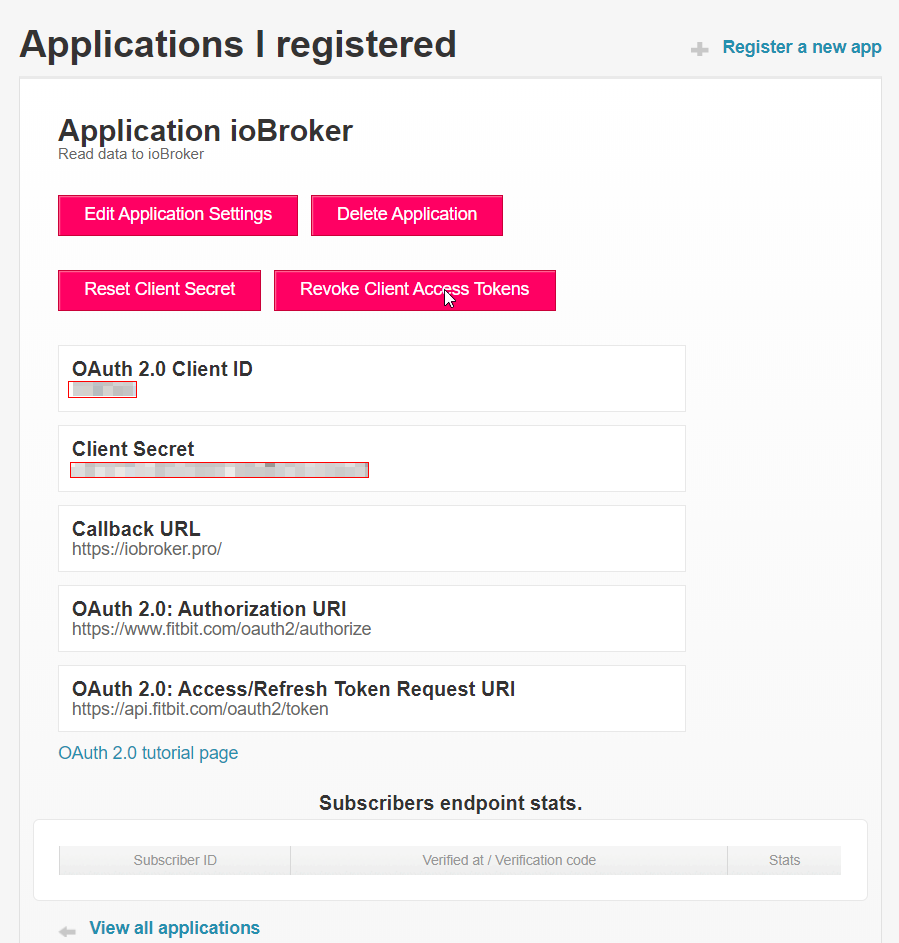
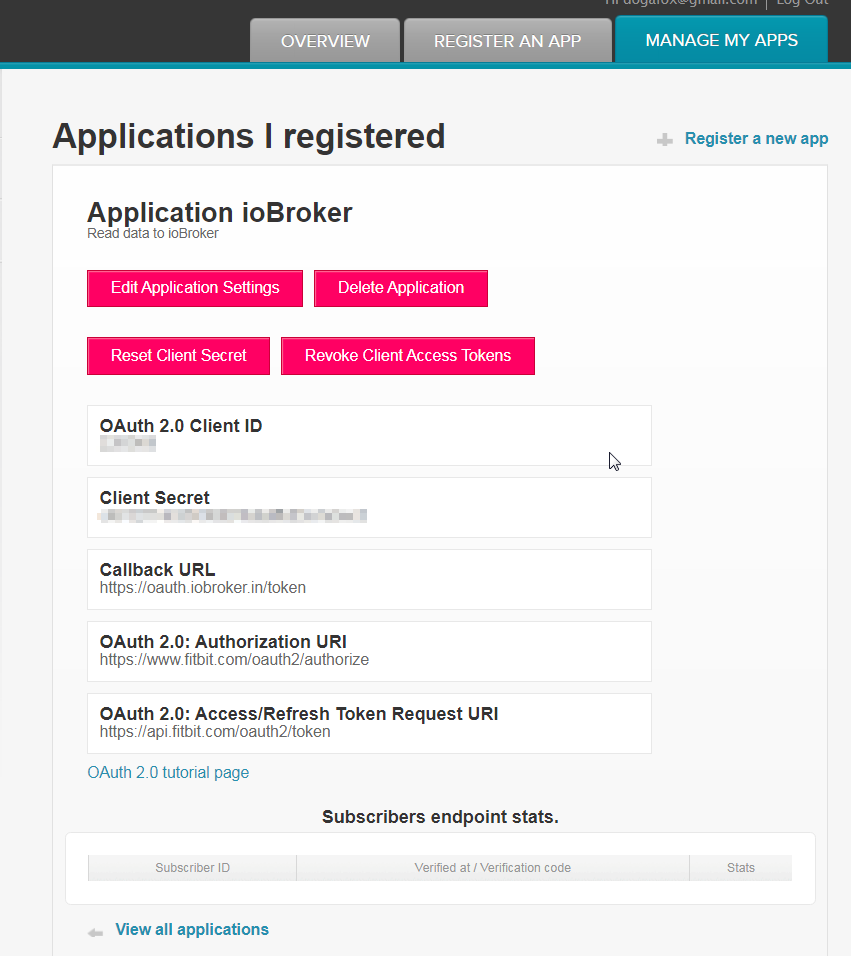
Update

diff --git a/admin/words.js b/admin/words.js
@@ -3,11 +3,17 @@
 'use strict';
 
 systemDictionary = {
-    "Auto": {                                        "en": "Auto",                                            "de": "Auto",                                            "ru": "Автоматически",                                   "pt": "Auto",                                            "nl": "Auto",                                            "fr": "Auto",                                            "it": "Auto",                                            "es": "Auto"},
-    "Manual": {                                      "en": "Manual",                                          "de": "Manual",                                          "ru": "Вручную",                                         "pt": "Manual",                                          "nl": "Met de hand",                                     "fr": "Manuel",                                          "it": "Manuale",                                         "es": "Manual"},
-    "My select": {                                   "en": "My select",                                       "de": "Mein Auswahl",                                    "ru": "Выбор",                                           "pt": "Meu selecionado",                                 "nl": "Mijn select",                                     "fr": "Mon choix",                                       "it": "La mia selezione",                                "es": "Mi seleccion"},
-    "on save adapter restarts with new config immediately": {"en": "on save adapter restarts with new config immediately", "de": "Beim Speichern von Einstellungen der Adapter wird sofort neu gestartet.", "ru": "При сохранении настроек адаптера он сразу же перезапускается", "pt": "no adaptador de salvar reinicia com nova configuração imediatamente", "nl": "on save-adapter wordt onmiddellijk opnieuw opgestart met nieuwe config", "fr": "sur l'adaptateur de sauvegarde redémarre avec la nouvelle config immédiatement", "it": "su save adapter si riavvia immediatamente con la nuova configurazione", "es": "en el adaptador de guardar se reinicia con nueva configuración de inmediato"},
-    "template adapter settings": {                   "en": "template adapter settings",                       "de": "Beispiel",                                        "ru": "Пример",                                          "pt": "configurações do adaptador de modelo",            "nl": "sjabloon-adapterinstellingen",                    "fr": "paramètres de l'adaptateur de modèle",            "it": "impostazioni dell'adattatore del modello",        "es": "configuración del adaptador de plantilla"},
-    "test1": {                                       "en": "Test 1",                                          "de": "Test 1",                                          "ru": "Тест 1",                                          "pt": "Teste 1",                                         "nl": "Test 1",                                          "fr": "Test 1",                                          "it": "Test 1",                                          "es": "Prueba 1"},
-    "test2": {                                       "en": "Test 2",                                          "de": "Test 2",                                          "ru": "Тест 2",                                          "pt": "Teste 2",                                         "nl": "Test 2",                                          "fr": "Test 2",                                          "it": "Test 2",                                          "es": "Prueba 2"}
+    "Services": {                                    "en": "Services",                                        "de": "Dienste",                                         "ru": "Сервисы",                                         "pt": "Serviços",                                        "nl": "Diensten",                                        "fr": "Prestations de service",                          "it": "Servizi",                                         "es": "Services",                                        "pl": "Usługi",                                          "zh-cn": "服务"},
+    "I have yet an access token": {                  "en": "I have yet an access token",                      "de": "Ich habe schon einen Zugangstoken",               "ru": "У меня уже есть access token",                    "pt": "Eu ainda tenho um token de acesso",               "nl": "Ik heb nog een toegangstoken",                    "fr": "J'ai encore un jeton d'accès",                    "it": "Ho ancora un token di accesso",                   "es": "I have yet an access token",                      "pl": "Mam jeszcze token dostępu",                       "zh-cn": "我还没有访问令牌"},
+    "Access token": {                                "en": "Access token",                                    "de": "Access token",                                    "ru": "Access token",                                    "pt": "Access token",                                    "nl": "Access token",                                    "fr": "Access token",                                    "it": "Access token",                                    "es": "Access token",                                    "pl": "Access token",                                    "zh-cn": "Access token"},
+    "OAuth Client ID": {                             "en": "OAuth Client ID",                                 "de": "OAuth-Client-ID",                                 "ru": "OAuth client ID",                                 "pt": "ID do cliente OAuth",                             "nl": "OAuth-client-ID",                                 "fr": "ID client OAuth",                                 "it": "ID client OAuth",                                 "es": "OAuth Client ID",                                 "pl": "Identyfikator klienta OAuth",                     "zh-cn": "OAuth Client ID"},
+    "You can obtain the client ID here: ": {         "en": "You can obtain the client ID here: ",             "de": "Client-ID kann man hier bekommen:",               "ru": "Вы можете получить client ID здесь:",             "pt": "Você pode obter o ID do cliente aqui:",           "nl": "U kunt de klant-ID hier verkrijgen:",             "fr": "Vous pouvez obtenir l'ID client ici:",            "it": "È possibile ottenere l'ID client qui:",           "es": "You can obtain the client ID here: ",             "pl": "Identyfikator klienta można uzyskać tutaj:",      "zh-cn": "您可以在此处获取客户端ID："},
+    "Client secret": {                               "en": "Client secret",                                   "de": "Client secret",                                   "ru": "Client secret",                                   "pt": "Segredo do cliente",                              "nl": "Klant geheim",                                    "fr": "Secret du client",                                "it": "Segreto del cliente",                             "es": "Client secret",                                   "pl": "Sekret klienta",                                  "zh-cn": "客户机密"},
+    "Authorize": {                                   "en": "Authorize",                                       "de": "Autorisieren",                                    "ru": "Получить токен",                                  "pt": "Autorizar",                                       "nl": "Toestemming geven",                               "fr": "Autoriser",                                       "it": "Autorizzare",                                     "es": "Authorize",                                       "pl": "Autoryzować",                                     "zh-cn": "授权"},
+    "Refresh token": {                               "en": "Refresh token",                                   "de": "Refresh Token",                                   "ru": "Refresh token",                                   "pt": "Atualizar token",                                 "nl": "Refresh token",                                   "fr": "Refresh token",                                   "it": "Refresh token",                                   "es": "Refresh token",                                   "pl": "Refresh token",                                   "zh-cn": "Refresh token"},
+    "Expires on": {                                  "en": "Expires on",                                      "de": "Läuft aus am",                                    "ru": "Годен до",                                        "pt": "Expira em",                                       "nl": "Verloopt op",                                     "fr": "Expire le",                                       "it": "Scade il",                                        "es": "Expires on",                                      "pl": "Wygasa w dniu",                                   "zh-cn": "到期"},
+    "Weight": {                                      "en": "Weight",                                          "de": "Gewicht",                                         "ru": "Вес",                                             "pt": "Peso",                                            "nl": "Gewicht",                                         "fr": "Poids",                                           "it": "Peso",                                            "es": "Weight",                                          "pl": "Waga",                                            "zh-cn": "重量"},
+    "Fat": {                                         "en": "Fat",                                             "de": "Fettindex",                                       "ru": "Индекс жира",                                     "pt": "Gordura",                                         "nl": "Dik",                                             "fr": "Graisse",                                         "it": "Grasso",                                          "es": "Fat",                                             "pl": "Tłuszcz",                                         "zh-cn": "脂肪"},
+    "Activities": {                                  "en": "Activities",                                      "de": "Aktivitäten",                                     "ru": "Мероприятия",                                     "pt": "Atividades",                                      "nl": "Activiteiten",                                    "fr": "Activités",                                       "it": "attività",                                        "es": "Activities",                                      "pl": "Zajęcia",                                         "zh-cn": "活动项目"},
+    "Device battery": {                              "en": "Device battery",                                  "de": "Gerätebatterie",                                  "ru": "Состояние батареи устройств",                     "pt": "Bateria do dispositivo",                          "nl": "Apparaat batterij",                               "fr": "Batterie de l'appareil",                          "it": "Batteria del dispositivo",                        "es": "Device battery",                                  "pl": "Bateria urządzenia",                              "zh-cn": "设备电池"}
 };

diff --git a/admin/index_m.html b/admin/index_m.html
@@ -49,9 +49,10 @@
 
         $('.table-button-do').on('click', function () {
             var clientID = $('#clientID').val();
-            var url = 'https://www.fitbit.com/oauth2/authorize?response_type=code&client_id=' + clientID + '&redirect_uri=https%3A%2F%2Foauth.iobroker.in%2Ftoken&scope=activity%20heartrate%20location%20nutrition%20profile%20sleep%20social%20weight&expires_in=2592000000';
+            var url = 'https://www.fitbit.com/oauth2/authorize?response_type=code&client_id=' + clientID + '&redirect_uri=https%3A%2F%2Foauth.iobroker.in%2Ftoken&scope=activity%20heartrate%20location%20nutrition%20profile%20settings%20sleep%20social%20weight&expires_in=2592000000';
             var $iframe = $('#iframe');
             $('#iframe_div').show();
+            $('.no-iframe').hide();
             $('.tokens').hide();
             $iframe.attr('src', url).show();
             $iframe.css('border', '1px solid red');
@@ -65,6 +66,8 @@
             $('#iframe').css('border', '0').hide();
             $('#iframe_div').hide();
             $('.tokens').show();
+            $('.no-iframe').show();
+            $('.owntoken').hide();
 
             if (e.data) {
                 var clientID = $('#clientID').val();
@@ -126,6 +129,29 @@
         })
             .on('keyup', function () {$(this).trigger('change')});
 
+        var $ownToken = $('#ownToken');
+
+        if (settings.token) {
+            $ownToken.prop('checked', true);
+            $('.owntoken').show();
+            $('.generate').hide();
+        } else {
+            $('.owntoken').hide();
+            $('.generate').show();
+        }
+
+        $ownToken.on('change', function () {
+            var val = $(this).prop('checked');
+            if (val) {
+                $('.owntoken').show();
+                $('.generate').hide();
+            } else {
+                $('.owntoken').hide();
+                $('.generate').show();
+                $('#token').val('');
+                onChange();
+            }
+        });
 
         onChange(false);
         M.updateTextFields();
@@ -141,6 +167,7 @@
                 obj[$this.attr('id')] = $this.val();
             }
         });
+
         obj.generate = $('#yes_generate ').prop('checked');
 
         callback(obj);
@@ -150,44 +177,99 @@
 <body>
 <div class="m adapter-container">
     <div class="row">
-        <div class="col s6">
-            <img src="fitbit-api.png" alt="logo" class="logo">
+        <div class="col s12">
+            <ul class="tabs">
+                <li class="tab col s2"><a href="#tab-main"      class="translate active">Main settings</a></li>
+                <li class="tab col s2"><a href="#tab-services"  class="translate">Services</a></li>
+            </ul>
         </div>
-    </div>
-    <div class="row">
-        <div class="input-field col s12 m6 l4">
-            <input class="value" id="clientID" type="text">
-            <label for="clientID">OAuth Client ID</label>
+        <div id="tab-main" class="col s12 page">
+            <div class="row">
+                <div class="col s6">
+                    <img src="fitbit-api.png" alt="logo" class="logo">
+                </div>
+            </div>
+            <div class="row no-iframe">
+                <div class="input-field col s12 m6 l4">
+                    <input id="ownToken" type="checkbox">
+                    <span for="ownToken" class="translate">I have yet an access token</span>
+                </div>
+            </div>
+            <div class="row owntoken no-iframe">
+                <div class="input-field col s12">
+                    <input class="value" id="token" type="text">
+                    <label for="token" class="translate">Access token</label>
+                </div>
+            </div>
+            <div class="row generate no-iframe">
+                <div class="input-field col s12 m6 l4">
+                    <input class="value" id="clientID" type="text">
+                    <label for="clientID" class="translate">OAuth Client ID</label>
+                    <span class="translate">You can obtain the client ID here: </span>
+                    <a href="https://dev.fitbit.com/apps" target="_blank">https://dev.fitbit.com/apps</a>
+                </div>
+            </div>
+            <div class="row generate no-iframe">
+                <div class="input-field col s12 m6 l4">
+                    <input class="value" id="clientSecret" type="text">
+                    <label for="clientSecret" class="translate">Client secret</label>
+                </div>
+            </div>
+            <div class="row generate no-iframe">
+                <a class="waves-effect waves-light btn blue table-button-do"><i class="material-icons">add</i><span class="translate">Authorize</span></a>
+            </div>
+            <div class="row generate" id="iframe_div">
+                <iframe id="iframe" name="iframe" src="" style="display: none; width: 100%; height: calc(100% - 50px); border: 0;"></iframe>
+            </div>
+            <div class="row tokens generate no-iframe">
+                <div class="input-field col s12">
+                    <input id="accessToken" type="text" readonly>
+                    <label for="accessToken" class="translate">Access token</label>
+                </div>
+            </div>
+            <div class="row tokens generate no-iframe">
+                <div class="input-field col s12">
+                    <input id="refreshToken" type="text" readonly>
+                    <label for="refreshToken" class="translate">Refresh token</label>
+                </div>
+            </div>
+            <div class="row tokens generate no-iframe">
+                <div class="input-field col s12 m6 l4">
+                    <input id="expireOn" type="text" readonly>
+                    <label for="expireOn" class="translate">Expires on</label>
+                </div>
+            </div>
         </div>
-    </div>
-    <div class="row">
-        <div class="input-field col s12 m6 l4">
-            <input class="value" id="clientSecret" type="text">
-            <label for="clientSecret">Client secret</label>
-        </div>
-    </div>
-    <div class="row">
-        <a class="waves-effect waves-light btn blue table-button-do"><i class="material-icons">add</i><span class="translate">Authorize</span></a>
-    </div>
-    <div class="row" id="iframe_div">
-        <iframe id="iframe" name="iframe" src="" style="display: none; width: 100%; height: calc(100% - 295px); border: 0;"></iframe>
-    </div>
-    <div class="row tokens">
-        <div class="input-field col s12">
-            <input id="accessToken" type="text" readonly>
-            <label for="accessToken">Access token</label>
-        </div>
-    </div>
-    <div class="row tokens">
-        <div class="input-field col s12">
-            <input id="refreshToken" type="text" readonly>
-            <label for="refreshToken">Refresh token</label>
-        </div>
-    </div>
-    <div class="row tokens">
-        <div class="input-field col s12 m6 l4">
-            <input id="expireOn" type="text" readonly>
-            <label for="expireOn">Expires on</label>
+        <div id="tab-services" class="col s12 page">
+            <div class="row">
+                <div class="col s6">
+                    <img src="fitbit-api.png" alt="logo" class="logo">
+                </div>
+            </div>
+            <div class="row">
+                <div class="input-field col s12 m6 l4">
+                    <input class="value" id="weight" type="checkbox">
+                    <span for="weight" class="translate">Weight</span>
+                </div>
+            </div>
+            <div class="row">
+                <div class="input-field col s12 m6 l4">
+                    <input class="value" id="fat" type="checkbox">
+                    <span for="fat" class="translate">Fat</span>
+                </div>
+            </div>
+            <div class="row">
+                <div class="input-field col s12 m6 l4">
+                    <input class="value" id="activities" type="checkbox">
+                    <span for="activities" class="translate">Activities</span>
+                </div>
+            </div>
+            <div class="row">
+                <div class="input-field col s12 m6 l4">
+                    <input class="value" id="devices" type="checkbox">
+                    <span for="devices" class="translate">Device battery</span>
+                </div>
+            </div>
         </div>
     </div>
 </div>

diff --git a/main.js b/main.js
@@ -85,7 +85,8 @@ function requestProfile(token, adapter) {
                     reject('User not found');
                 }
             } else {
-                reject(error || response.statusCode);
+                adapter.log.error('Cannot read profile: ' + (body || error || response.statusCode));
+                reject('Cannot read profile: ' + (body || error || response.statusCode));
             }
         });
     });
@@ -162,7 +163,7 @@ function requestWeight(token, adapter) {
                         const data = JSON.parse(body);
                         adapter.log.debug('weight: ' + JSON.stringify(data));
 
-                        if (data && data.weight) {
+                        if (data && data.weight && data.weight.length) {
                             const value = data.weight.shift();
                             const date = new Date(`${value.date}T${value.time}`);
 
@@ -182,7 +183,8 @@ function requestWeight(token, adapter) {
                             reject('Weight is not found');
                         }
                     } else {
-                        reject(error || response.statusCode);
+                        adapter.log.error('Cannot read weight: ' + (body || error || response.statusCode));
+                        reject('Cannot read weight: ' + (body || error || response.statusCode));
                     }
                 }));
     });
@@ -248,7 +250,8 @@ function requestBodyFat(token, adapter) {
                     reject('fat is not found');
                 }
             } else {
-                reject(error || response.statusCode);
+                adapter.log.error('Cannot read fat: ' + (body || error || response.statusCode));
+                reject('Cannot read fat: ' + (body || error || response.statusCode));
             }
         });
     });
@@ -369,7 +372,8 @@ function requestActivities(token, adapter) {
                     reject('Activities not found');
                 }
             } else {
-                reject(error || response.statusCode);
+                adapter.log.error('Cannot read activities: ' + (body || error || response.statusCode));
+                reject('Cannot read activities: ' + (body || error || response.statusCode));
             }
         });
     });
@@ -450,7 +454,8 @@ function requestDevices(token, adapter) {
                     .then(() => resolve())
                     .catch(e => reject(e));
             } else {
-                reject(error || response.statusCode);
+                adapter.log.error('Cannot read devices: ' + (body || error || response.statusCode));
+                reject('Cannot read devices: ' + (body || error || response.statusCode));
             }
         });
     });
@@ -521,7 +526,7 @@ function main(adapter) {
             !promises.length && adapter.log.error('No one option is enabled. Please enable what kind of data do you want to have in adapter configuration!');
 
             Promise.all(promises)
-                .catch(e => adapter.log.error(e))
+                .catch(e => adapter.log.error('Cannot read: ' + e))
                 .then(() => setTimeout(() => adapter.stop(), 1000));
         }).catch(e => {
             adapter.log.error(e);

diff --git a/README.md b/README.md
@@ -1,16 +1,49 @@
-![Logo](admin/fitbit.png)
+![Logo](admin/fitbit-api.png)
 # ioBroker.fitbit
 
-This adapter pull Data from fitbit API!
+This adapter pulls Data from fitbit API!
 
 ## Configuration
-- Register your APP on https://dev.fitbit.com/apps
-- Insert clientID and client secret into configuration.
+![step1](img/step1.png)
+
+Register your APP on https://dev.fitbit.com/apps
+
+![step2](img/step2.png)
+
+`Callback URL` **is important!**: `https://oauth.iobroker.in/token`
+You can use following settings:
+- `Application Website`: `https://www.iobroker.net`
+- `Organization`: `ioBroker Community`
+- `Organization Website`: `https://www.iobroker.com`
+- `Terms Of Service Url`: `https://iobroker.pro/policy_en`
+- `Privacy Policy Url`: `https://iobroker.pro/policy_en`
+- `OAuth 2.0 Application Type`: `client`
+- **Callback URL***: `https://oauth.iobroker.in/token`
+
+And press `Save` at the bottom of the input form.
+
+![step3](img/step3.png)
+
+Copy the `Client ID` and `Client secret`.
+
+![step4](img/step4.png)
+
+Insert `clientID` and `client secret` into adapter configuration.
+
+Press "Authorize" button.
+
+![step5](img/step5.png)
+
+After that you could be asked to enter your credentials again or if the browser cache is still consist the cookies, it could be done automatically.
+
+Then `access token` and `refresh token` will appear. They are read-only.
+
+Don't forget to save the configuration settings, else the refresh of the token will not work.
+
+If the process does not work for you, you can try to get the access token manually: https://dev.fitbit.com/apps/oauthinteractivetutorial
 
 ## Development
 The API was implemented according to https://dev.fitbit.com/build/reference/web-api/basics/
-
-`METRIC` units are used.
 
 ## Changelog
 
